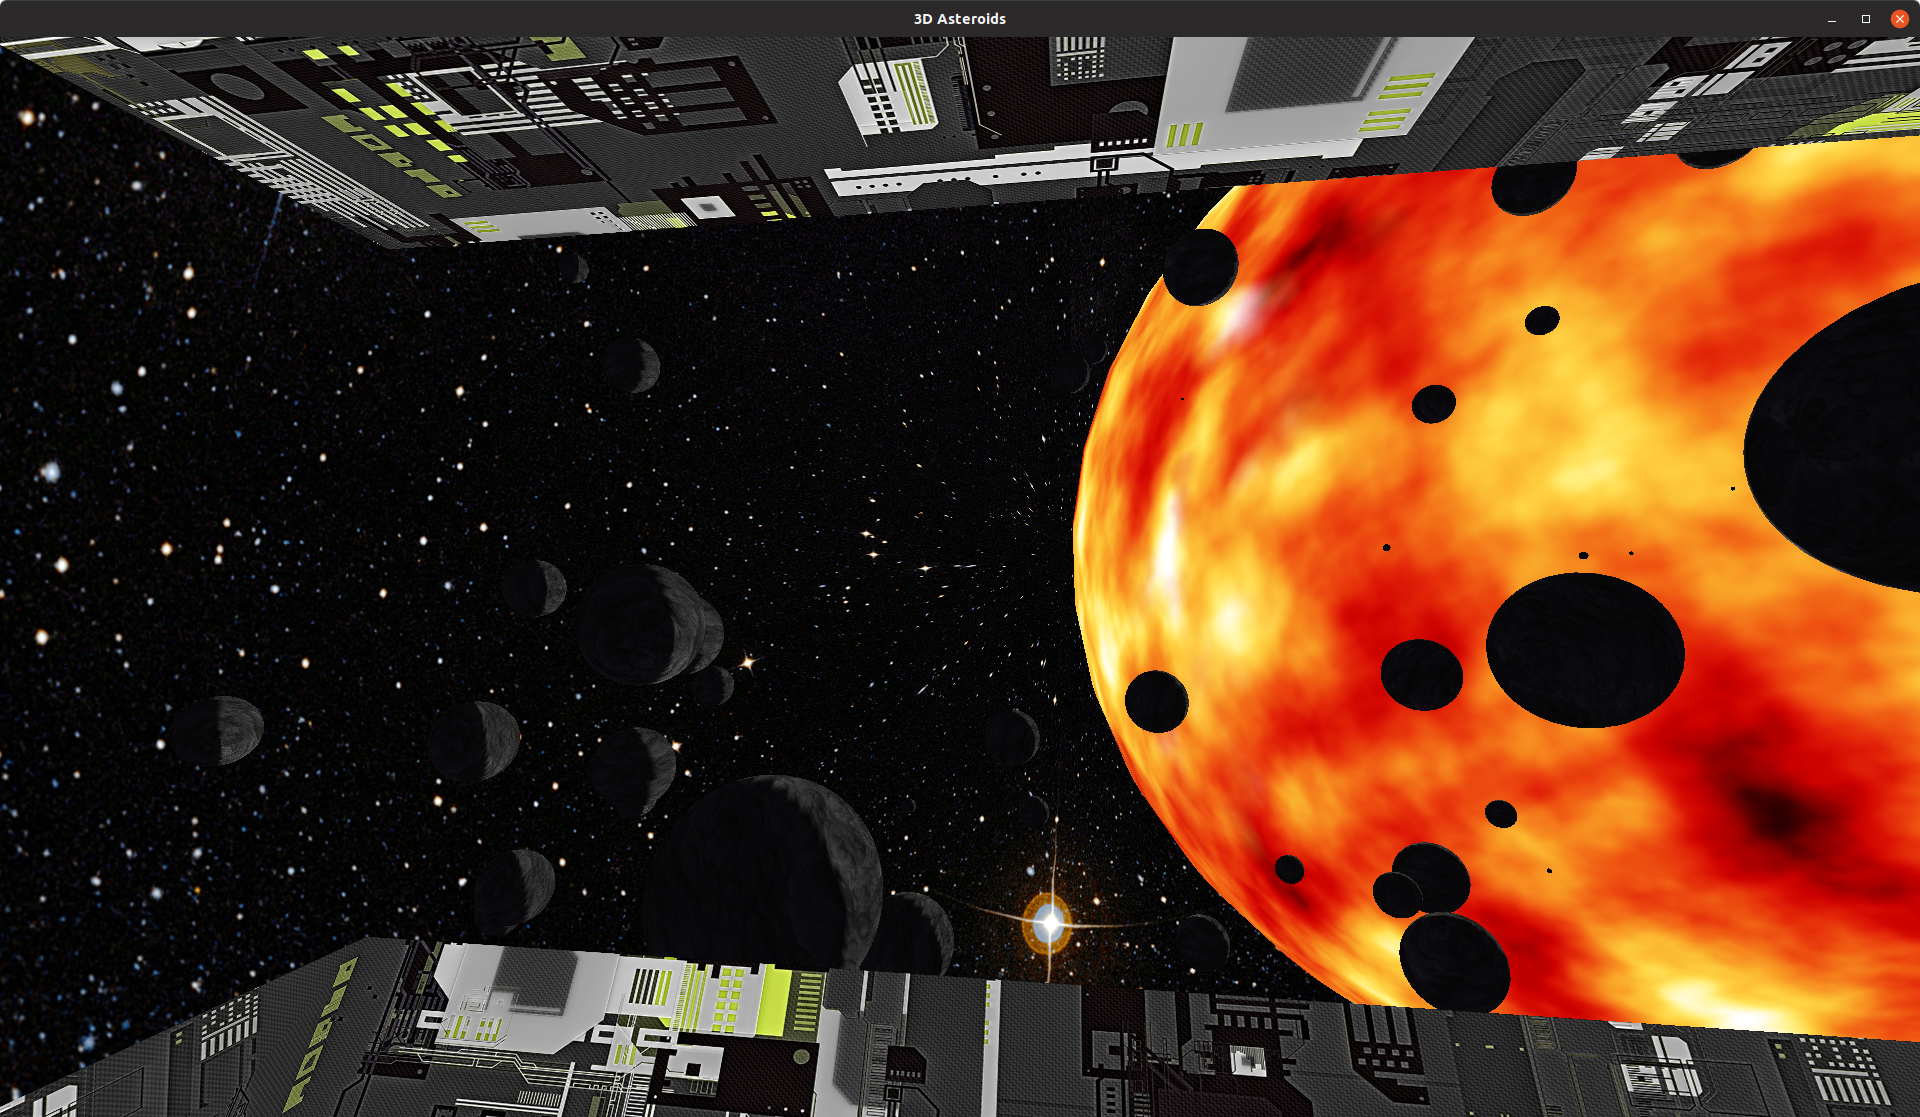
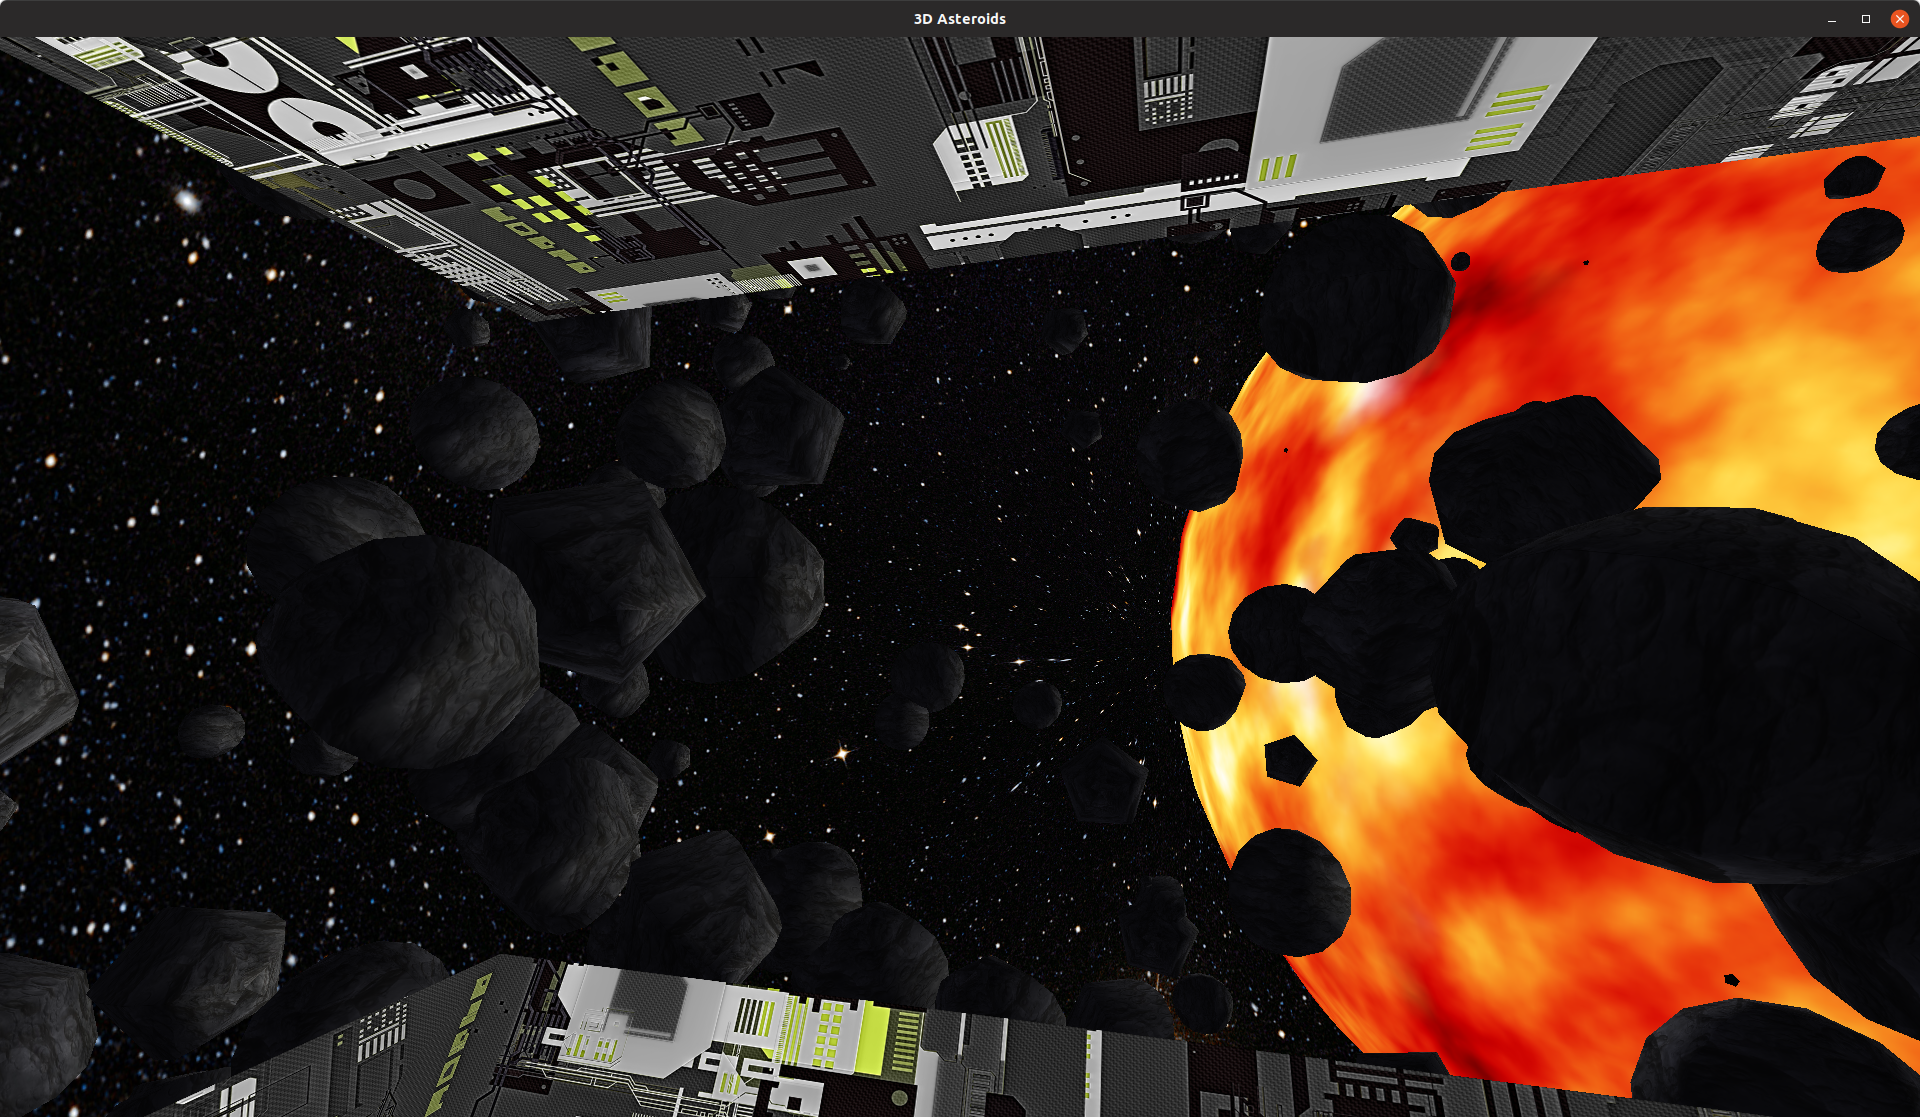
More parameters, less round asteroids

diff --git a/ObjectSpawner.cpp b/ObjectSpawner.cpp
@@ -1,9 +1,13 @@
 #include <utility>
 
+#include <utility>
+
 #include "BaseObjects/KinematicObject.h"
 #include "ObjectSpawner.h"
 #include "Util/RandomRange.h"
 #include "BaseObjects/CollidableObject.h"
+
+const float OBJECT_RANGE = 150.0f;
 
 KinematicObject *ObjectSpawner::createSphere(std::string name, GLuint texId,
                                              GLfloat r, GLfloat g, GLfloat b,
@@ -12,10 +16,9 @@ KinematicObject *ObjectSpawner::createSphere(std::string name, GLuint texId,
     auto sphere = new KinematicObject(std::move(name),
                                       Eigen::Vector3d{
                                               // random position within world space
-                                              // TODO: Move parameters to Defines
-                                              (Random::ZeroToOne() - 0.5f) * 100.0f,
-                                              (Random::ZeroToOne() - 0.5f) * 100.0f,
-                                              (Random::ZeroToOne() - 0.5f) * 100.0f},
+                                              (Random::ZeroToOne() - 0.5f) * OBJECT_RANGE,
+                                              (Random::ZeroToOne() - 0.5f) * OBJECT_RANGE,
+                                              (Random::ZeroToOne() - 0.5f) * OBJECT_RANGE},
                                       Eigen::Vector3d::Zero(),
                                       Eigen::Vector3d::Zero());
 
@@ -41,11 +44,11 @@ KinematicObject *ObjectSpawner::createSphere(std::string name, GLuint texId,
 
 KinematicObject *ObjectSpawner::createCube(std::string name, GLuint texId,
                                            GLfloat r, GLfloat g, GLfloat b) {
-    auto cube = new KinematicObject(name,
+    auto cube = new KinematicObject(std::move(name),
                                     Eigen::Vector3d{
-                                            (Random::ZeroToOne() - 0.5f) * 100.0f,
-                                            (Random::ZeroToOne() - 0.5f) * 100.0f,
-                                            (Random::ZeroToOne() - 0.5f) * 100.0f},
+                                            (Random::ZeroToOne() - 0.5f) * OBJECT_RANGE,
+                                            (Random::ZeroToOne() - 0.5f) * OBJECT_RANGE,
+                                            (Random::ZeroToOne() - 0.5f) * OBJECT_RANGE},
                                     Eigen::Vector3d::Zero(),
                                     Eigen::Vector3d::Zero());
 

diff --git a/BaseObjects/RenderObject.cpp b/BaseObjects/RenderObject.cpp
@@ -3,6 +3,9 @@
 #include "RenderObject.h"
 #include "../Util/TextureManager.h"
 
+const int DEFAULT_SPHERE_SLICES = 5;
+const int DEFAULT_SPHERE_STACKS = 8;
+
 bool setIfDiff(GLboolean val, GLenum cap) {
     if (val != glIsEnabled(cap)) {
         if (val == GL_TRUE) {
@@ -44,14 +47,16 @@ void SphereRenderObject::render() {
         glMultMatrixf(matrix);
 
         if (texId != 0) {
+            // There is a texture -> draw a gluSphere with a quadric texture
             GLUquadric *sphere = gluNewQuadric();
             gluQuadricTexture(sphere, GL_TRUE);
             //  0.1     15      15
             //  0.3     36      72
             //  1000    500     500
-            gluSphere(sphere, radius, 36, 72);
+            gluSphere(sphere, radius, DEFAULT_SPHERE_SLICES, DEFAULT_SPHERE_STACKS);
         } else {
-            glutSolidSphere(radius, 15, 15);
+            // No texture -> draw a default solid sphere
+            glutSolidSphere(radius, DEFAULT_SPHERE_SLICES, DEFAULT_SPHERE_STACKS);
         }
     }
     catch (std::exception &e) {

diff --git a/Defines.h b/Defines.h
@@ -10,7 +10,7 @@
 #define RAD(x) (((x)*M_PI)/180.)
 
 const int count_stars = 50;
-const int count_asteroids = 100;
+const int count_asteroids = 500;
 
 const int width = 1920;
 const int height = 1080;
@@ -23,7 +23,10 @@ const int WORLD_SIZE = 2000;
 const float STAR_MIN_SIZE = 0.1f;
 const float STAR_MAX_SIZE = 0.15f;
 const float ASTEROID_MIN_SIZE = 0.5f;
-const float ASTEROID_MAX_SIZE = 3.0f;
+const float ASTEROID_MAX_SIZE = 6.0f;
+
+const double MIN_FOV = 70.0;
+const double MAX_FOV_ADD = 40.0;
 
 const GLuint ASTEROID_IMG_ID = 1;
 const GLuint EARTH_IMG_ID = 2;
@@ -32,7 +35,7 @@ const GLuint SUN_IMG_ID = 4;
 const GLuint UNIVERSE_IMG_ID = 5;
 
 GLfloat sunLightPosition[] = { 0.0, 0.0, 0.0, 1.0 };
-GLfloat sunLightDiffuse[] = { 1000.0, 1000.0, 1000.0, 0.0 };
+GLfloat sunLightDiffuse[] = { 1.0, 1.0, 1.0, 0.0 };
 GLfloat sunLightAmbient[] = { 0.7, 0.7, 1.0, 1.0 };
 
 #endif // DEFINES_H

diff --git a/main.cpp b/main.cpp
@@ -62,11 +62,11 @@ void timer(int val) {
     }
 }
 
-void resize(int width, int height) {
+void resize(int new_width, int new_height) {
     // prevent division by zero
-    if (height == 0) { height = 1; }
+    if (new_height == 0) { new_height = 1; }
 
-    glViewport(0, 0, width, height);
+    glViewport(0, 0, new_width, new_height);
 }
 
 void keyPressed(unsigned char key, int x, int y) {
@@ -305,7 +305,7 @@ void display() {
     // Greater FOV the faster the player moves
     glMatrixMode(GL_PROJECTION);
     glLoadIdentity();
-    gluPerspective(60 + std::min(player->linearVelocity.norm() * 100.0, 40.0), (float) width / (float) height, 0.1f,
+    gluPerspective(MIN_FOV + std::min(player->linearVelocity.norm() * 100.0, MAX_FOV_ADD), (float) width / (float) height, 0.1f,
                    10000.0f);
     glMatrixMode(GL_MODELVIEW);
     glLoadIdentity();
